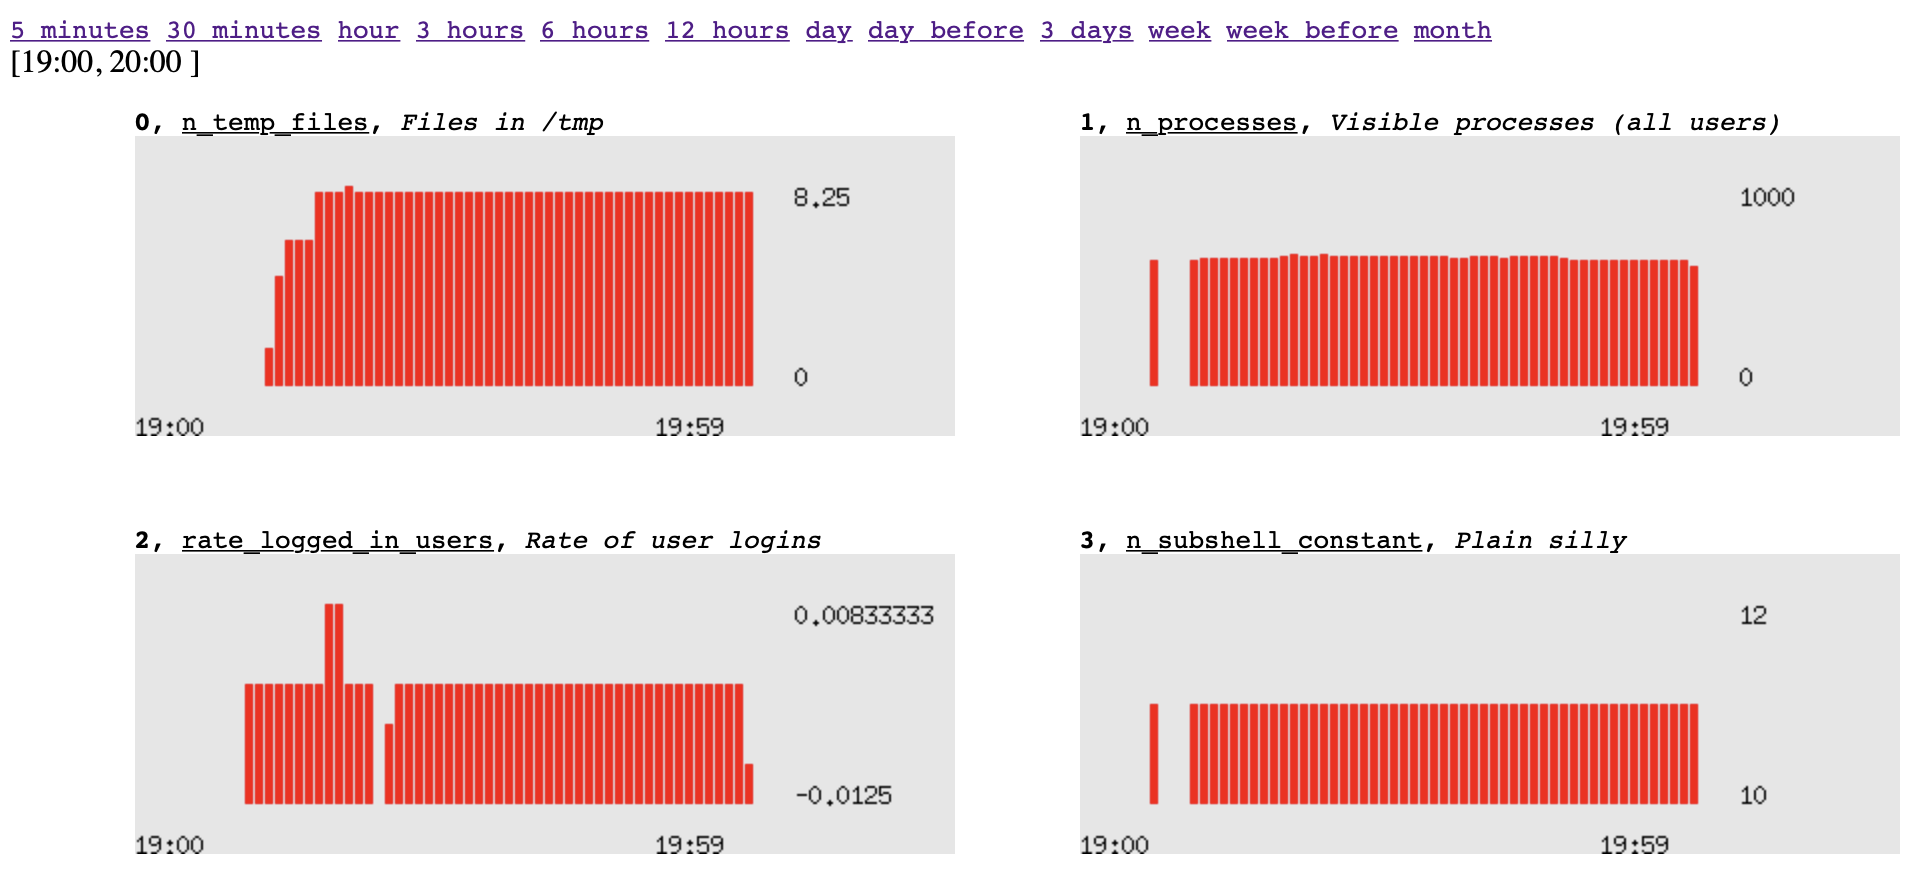
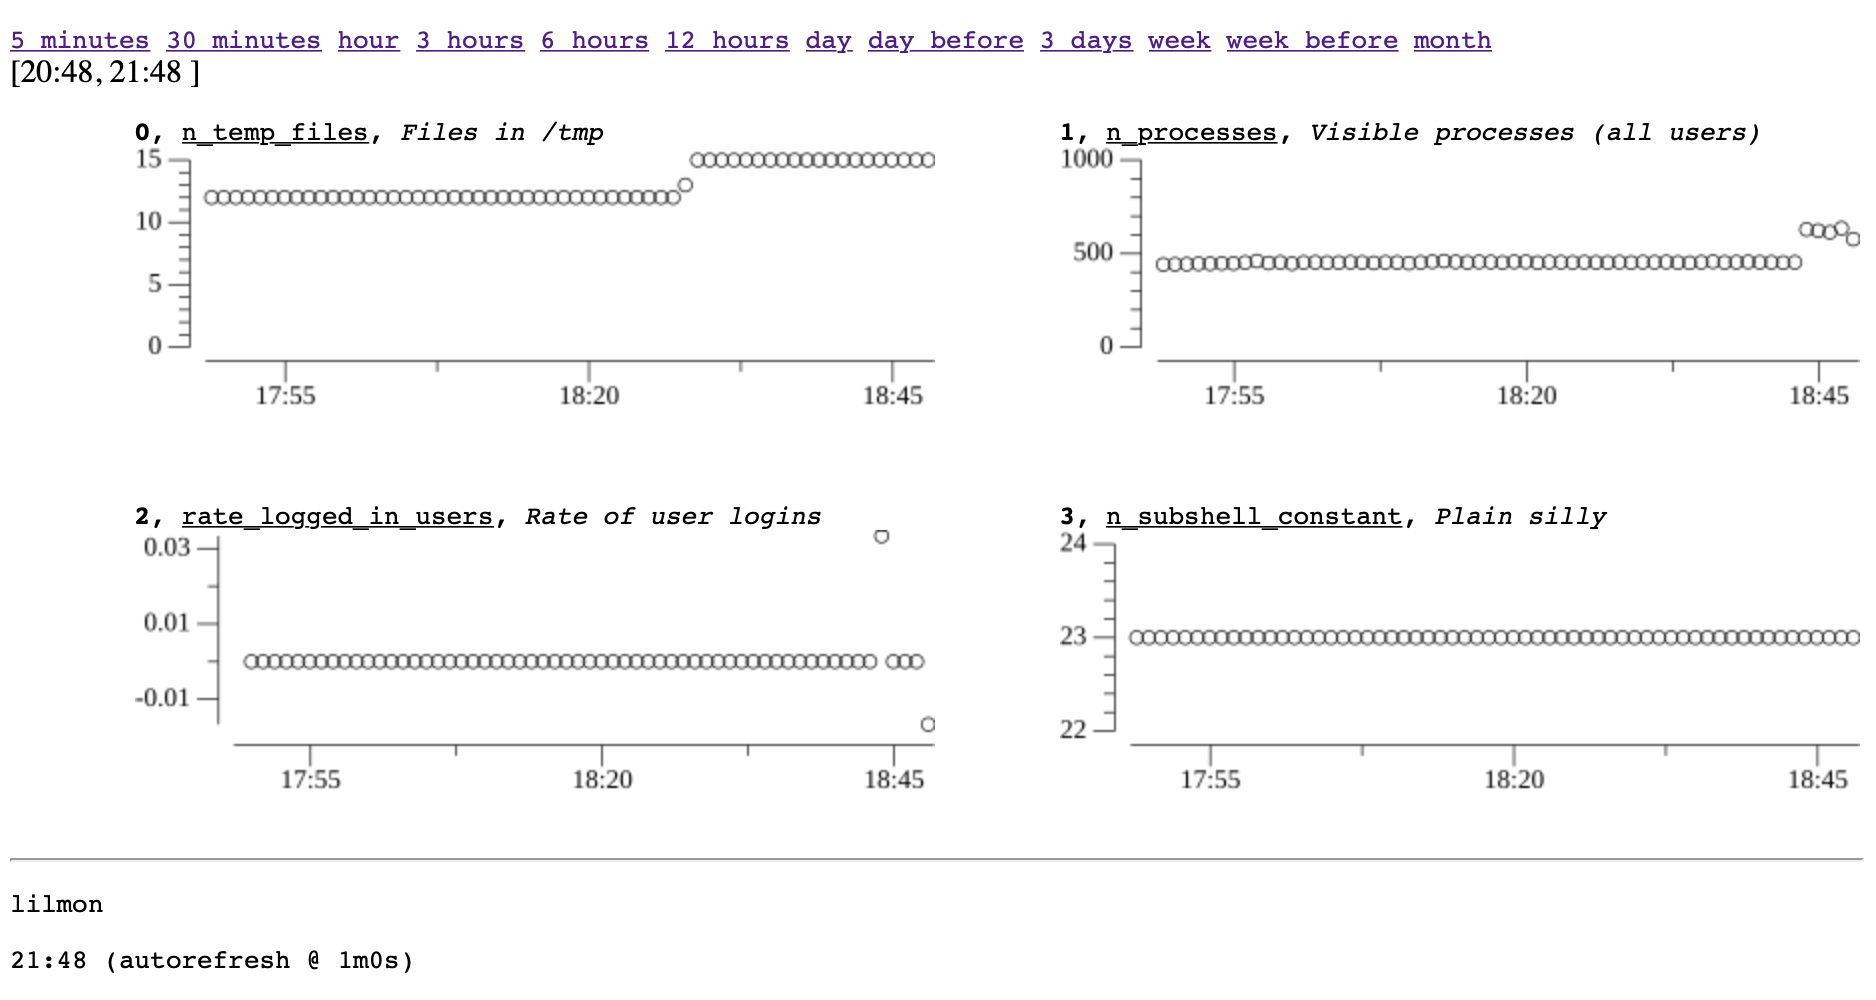
Update example screenshot

diff --git a/README.md b/README.md
@@ -45,10 +45,11 @@ on each measurement.
 
 ## How does it look like?
 
-The current version (v0.2.0) looks quite, uh, ascetic:
+The graphs are drawn using `gonum.org/v1/plot`. Currently lilmon produces graphs
+like this:
 
 ![screenshot of lilmon
-UI](https://github.com/susji/lilmon/raw/main/lilmon.png "lilmon v0.2.0")
+UI](https://github.com/susji/lilmon/raw/main/lilmon.png "lilmon v0.x.y")
 
 ## Does lilmon do alerting?
 
